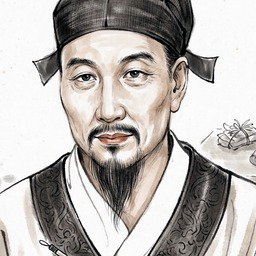
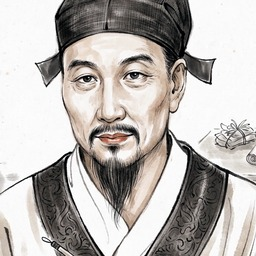
fix(graph): lower center label 10px, remove internal id from info card
- nudge the center node label down 10px off the circle
- drop the .info-id field (internal node id like person:huangfu_mi)
  shown beside the node name on hover

diff --git a/apps/frontend/src/components/graph/CuratedLandingGraph.vue b/apps/frontend/src/components/graph/CuratedLandingGraph.vue
@@ -117,7 +117,6 @@
           <span class="info-tag" :class="`type-${selectedNode.category}`">
             {{ categoryLabels[selectedNode.category] }}
           </span>
-          <span class="info-id">{{ selectedNode.id }}</span>
         </div>
         <strong class="info-title">{{ selectedNode.label }}</strong>
         <p class="info-desc">{{ selectedNode.description }}</p>
@@ -381,7 +380,8 @@ const computedEdges = computed<Array<ComputedEdge>>(() => {
 
 /** 外围节点标签：统一居中置于节点正下方（相对节点中心的偏移，随 <g> translate 定位） */
 function nodeLabel(n: NodeData): { x: number; y: number; anchor: 'start' | 'middle' | 'end' } {
-  return { x: 0, y: n.r + 12, anchor: 'middle' };
+  const isCenter = n.id === 'person:huangfu_mi';
+  return { x: 0, y: n.r + 12 + (isCenter ? 10 : 0), anchor: 'middle' };
 }
 
 const selectedNode = computed<NodeData | null>(() => {
@@ -738,12 +738,6 @@ const selectedNode = computed<NodeData | null>(() => {
 .info-tag.type-research {
   color: var(--color-success-text);
   background: var(--color-success-bg);
-}
-
-.info-id {
-  font-size: var(--text-xs);
-  font-family: var(--font-mono);
-  color: var(--color-text-muted);
 }
 
 .info-title {
